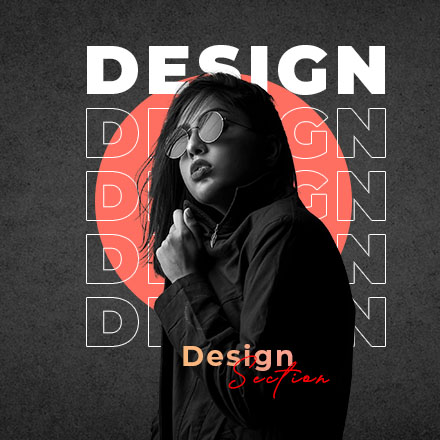
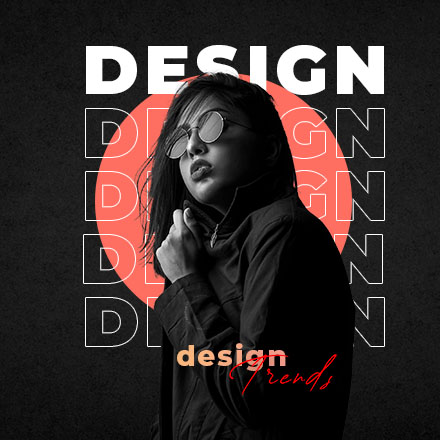
Updated the title beneath the categories

diff --git a/app/categories/page.js b/app/categories/page.js
@@ -4,7 +4,6 @@ import Image from "next/image";
 import Link from "next/link";
 import { useEffect, useState } from "react";
 
-
 export default function Categories() {
   const [isDarkMode, setIsDarkMode] = useState(false);
 
@@ -39,10 +38,10 @@ export default function Categories() {
       >
         <Link href="/" passHref>
           <Image
-            src="/logowhite.png" // Replace with the path to your logo image
+            src="/logowhite.png"
             alt="Logo"
-            width={150} // Half the width of the original logo for better responsiveness
-            height={10} // Scaled height to maintain the aspect ratio
+            width={150}
+            height={10}
             style={{ cursor: "pointer" }}
           />
         </Link>
@@ -58,7 +57,7 @@ export default function Categories() {
           flexGrow: 1,
         }}
       >
-        {/* Heading Box with Rounded Rectangle Stroke */}
+        {/* Heading Box */}
         <div
           style={{
             fontFamily: "'Inter', sans-serif",
@@ -68,7 +67,6 @@ export default function Categories() {
             padding: "20px 40px",
             marginBottom: "40px",
             display: "inline-block",
-            boxSizing: "border-box",
             border: `5px solid ${isDarkMode ? "#1abc9c" : "#6b21a8"}`,
           }}
         >
@@ -101,28 +99,48 @@ export default function Categories() {
           <Link href="/blog" passHref>
             <div
               style={{
-                width: "440px",
-                height: "440px",
-                borderRadius: "45px",
-                overflow: "hidden",
-                transition: "box-shadow 0.3s ease",
-                position: "relative",
-                display: "block",
+                display: "flex",
+                flexDirection: "column",
+                alignItems: "center",
+                textAlign: "center",
+                cursor: "pointer",
               }}
-              onMouseEnter={(e) =>
-                (e.currentTarget.style.boxShadow = isDarkMode
-                  ? "0 0 0 4px white"
-                  : "0 0 0 4px #1D3557")
-              }
-              onMouseLeave={(e) => (e.currentTarget.style.boxShadow = "none")}
             >
-              <Image
-                src="/blogsection.jpg"
-                alt="Blog Category"
-                layout="fill"
-                objectFit="cover"
-                style={{ borderRadius: "45px" }} // Ensures the image has rounded corners
-              />
+              <div
+                style={{
+                  width: "440px",
+                  height: "440px",
+                  borderRadius: "45px",
+                  overflow: "hidden",
+                  transition: "box-shadow 0.3s ease",
+                  position: "relative",
+                  display: "block",
+                }}
+                onMouseEnter={(e) =>
+                  (e.currentTarget.style.boxShadow = isDarkMode
+                    ? "0 0 0 4px white"
+                    : "0 0 0 4px #1D3557")
+                }
+                onMouseLeave={(e) => (e.currentTarget.style.boxShadow = "none")}
+              >
+                <Image
+                  src="/blogsection.jpg"
+                  alt="Blog Category"
+                  layout="fill"
+                  objectFit="cover"
+                  style={{ borderRadius: "45px" }}
+                />
+              </div>
+              <h1
+                style={{
+                  marginTop: "15px",
+                  fontSize: "24px",
+                  fontWeight: "bold",
+                  color: isDarkMode ? "white" : "black",
+                }}
+              >
+                BLOGS
+              </h1>
             </div>
           </Link>
 
@@ -141,28 +159,48 @@ export default function Categories() {
           <Link href="/designs" passHref>
             <div
               style={{
-                width: "440px",
-                height: "440px",
-                borderRadius: "45px",
-                overflow: "hidden",
-                transition: "box-shadow 0.3s ease",
-                position: "relative",
-                display: "block",
+                display: "flex",
+                flexDirection: "column",
+                alignItems: "center",
+                textAlign: "center",
+                cursor: "pointer",
               }}
-              onMouseEnter={(e) =>
-                (e.currentTarget.style.boxShadow = isDarkMode
-                  ? "0 0 0 4px white"
-                  : "0 0 0 4px #1D3557")
-              }
-              onMouseLeave={(e) => (e.currentTarget.style.boxShadow = "none")}
             >
-              <Image
-                src="/designsection.jpg"
-                alt="Designs Category"
-                layout="fill"
-                objectFit="cover"
-                style={{ borderRadius: "45px" }} // Ensures the image has rounded corners
-              />
+              <div
+                style={{
+                  width: "440px",
+                  height: "440px",
+                  borderRadius: "45px",
+                  overflow: "hidden",
+                  transition: "box-shadow 0.3s ease",
+                  position: "relative",
+                  display: "block",
+                }}
+                onMouseEnter={(e) =>
+                  (e.currentTarget.style.boxShadow = isDarkMode
+                    ? "0 0 0 4px white"
+                    : "0 0 0 4px #1D3557")
+                }
+                onMouseLeave={(e) => (e.currentTarget.style.boxShadow = "none")}
+              >
+                <Image
+                  src="/designsection.jpg"
+                  alt="Designs Category"
+                  layout="fill"
+                  objectFit="cover"
+                  style={{ borderRadius: "45px" }}
+                />
+              </div>
+              <h1
+                style={{
+                  marginTop: "15px",
+                  fontSize: "24px",
+                  fontWeight: "bold",
+                  color: isDarkMode ? "white" : "black",
+                }}
+              >
+                DESIGNS
+              </h1>
             </div>
           </Link>
         </div>
@@ -193,6 +231,5 @@ export default function Categories() {
         }
       `}</style>
     </div>
-    
   );
 }

diff --git a/app/blog/post1/page.js b/app/blog/post1/page.js
@@ -23,7 +23,7 @@ export default function BlogPost() {
     >
       {/* Navbar */}
       <header className="bg-white shadow-md">
-        <div className="container mx-auto px-4 py-4 flex items-center justify-between">
+        <div className="container mx-auto px-4 py-4 flex items-center justify-center">
           <Link href="/" passHref>
             <Image
               src="/logowhite.png" // Replace with your logo path

diff --git a/app/components/Homepage.js b/app/components/Homepage.js
@@ -17,6 +17,7 @@ export default function Homepage() {
 
   return (
     <section className='bg-grey-500 flex flex-col items-center justify-center' >
+      <div className="animate-slide-up"></div>
       {/* Introduction Image */}
       <div
         
